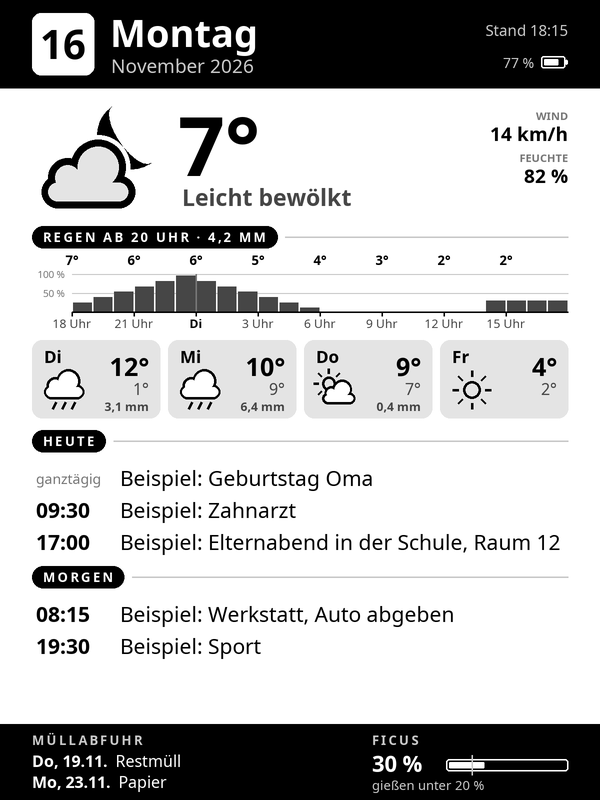
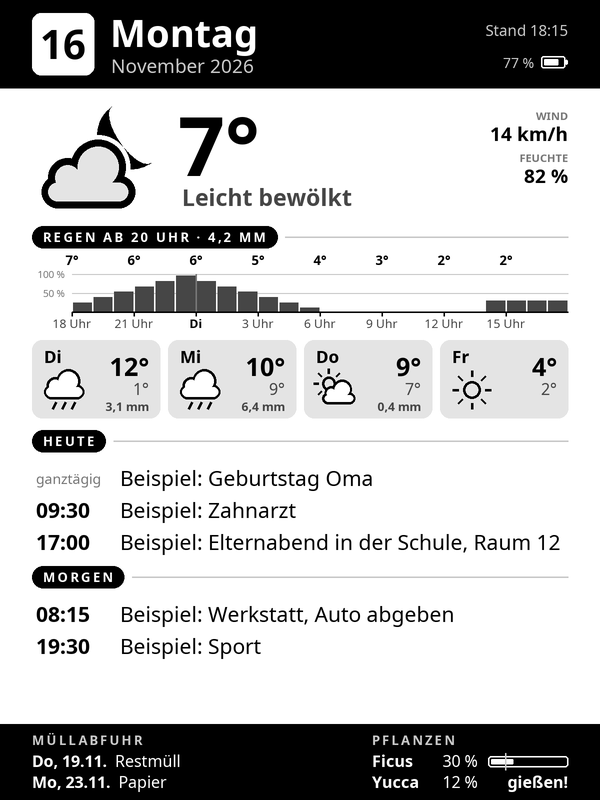
Show up to two plants in the footer

diff --git a/bild2.py b/bild2.py
@@ -179,7 +179,7 @@ def termine(b, d, y, unten):
 
 
 def fuss(b, d, y):
-    """Schwarzer Balken bis zum unteren Rand: Müllabfuhr und Pflanze."""
+    """Schwarzer Balken bis zum unteren Rand: Müllabfuhr und Pflanzen."""
     b.rechteck(0, y, BREITE, HOEHE)
     b.titel(RAND, y + 21, "Müllabfuhr", HELL)
     zy = y + 22
@@ -189,23 +189,25 @@ def fuss(b, d, y):
         zy += 21
         breite = b.text(RAND, zy, wann, 16, "fett", WEISS)
         b.text(RAND + breite + 8, zy, was, 16, farbe=WEISS, max_breite=300 - breite)
+    # Rechts: bis zu zwei Pflanzen, je eine Zeile mit Balken und Markierung an der Gieß-Grenze
     x = 372
-    for name, feuchte, grenze in d["pflanzen"][:1]:
-        b.titel(x, y + 21, name, HELL)
+    b.titel(x, y + 21, "Pflanzen", HELL)
+    for i, (name, feuchte, grenze) in enumerate(d["pflanzen"][:2]):
+        zy = y + 43 + i * 21
+        b.text(x, zy, name, 16, "fett", WEISS, max_breite=58)
         if feuchte is None:
-            b.text(x, y + 48, "–", 22, "fett", HELL)
+            b.text(x + 106, zy, "–", 16, farbe=HELL, anker="rs")
             continue
-        b.text(x, y + 48, f"{feuchte:.0f} %", 22, "fett", WEISS)
-        bx1, bx2, by = x + 74, BREITE - RAND, y + 35
-        b.rechteck(bx1, by, bx2, by + 12, farbe=SCHWARZ, radius=3, rand=WEISS, dicke=1.5)
-        b.rechteck(bx1 + 3, by + 3, bx1 + 3 + (bx2 - bx1 - 6) * min(feuchte, 100) / 100, by + 9,
+        b.text(x + 106, zy, f"{feuchte:.0f} %", 16, farbe=WEISS, anker="rs")
+        if feuchte < grenze:
+            b.text(BREITE - RAND, zy, "gießen!", 16, "fett", WEISS, anker="rs")
+            continue
+        bx1, bx2, by = x + 116, BREITE - RAND, zy - 11
+        b.rechteck(bx1, by, bx2, by + 11, farbe=SCHWARZ, radius=3, rand=WEISS, dicke=1.5)
+        b.rechteck(bx1 + 3, by + 3, bx1 + 3 + (bx2 - bx1 - 6) * min(feuchte, 100) / 100, by + 8,
                    farbe=WEISS, radius=1)
         gx = bx1 + 3 + (bx2 - bx1 - 6) * grenze / 100
-        b.linie(gx, by - 4, gx, by + 16, dicke=1.5, farbe=HELL)
-        if feuchte < grenze:
-            b.text(x, y + 66, "Bitte gießen", 15, "fett", WEISS)
-        else:
-            b.text(x, y + 66, f"gießen unter {grenze:.0f} %", 13, farbe=HELL)
+        b.linie(gx, by - 3, gx, by + 14, dicke=1.5, farbe=HELL)
 
 
 def zeichne(d):

diff --git a/einstellungen.beispiel.py b/einstellungen.beispiel.py
@@ -18,8 +18,8 @@ MUELLNAMEN = [("Restabfall", "Restmüll"), ("Bio", "Bio"), ("Papier", "Papier"),
 AKKU = "input_number.kindle_akku"
 LAEDT = "input_boolean.kindle_ladevorgang"
 
-# Plants: (name in the picture, soil moisture sensor, water below ... %) - only the first one is shown
-PFLANZEN = [("Ficus", "sensor.ficus_feuchtigkeit", 20)]
+# Plants: (name in the picture, soil moisture sensor, water below ... %) - the first two are shown
+PFLANZEN = [("Ficus", "sensor.ficus_feuchtigkeit", 20), ("Yucca", "sensor.yucca_feuchtigkeit", 15)]
 
 # Rooms: all temperature sensors per room; the LOWEST value is shown (no average). At most 6 rooms.
 # The rooms only appear when no rain is expected for 24 hours - otherwise the chart takes their place.

diff --git a/bild.py b/bild.py
@@ -346,7 +346,7 @@ BEISPIEL = {
     "raeume": [("Wohnzimmer", 19.6), ("Küche", 21.1), ("Arbeitszimmer", 20.8),
                ("Bad", 19.2), ("Kind", 20.3), ("Schlafen", 22.4)],
     "muell": [("Do, 19.11.", "Restmüll"), ("Mo, 23.11.", "Papier")],
-    "pflanzen": [("Ficus", 30, 20)],
+    "pflanzen": [("Ficus", 30, 20), ("Yucca", 12, 15)],
 }
 
 if __name__ == "__main__":

diff --git a/INSTALL.md b/INSTALL.md
@@ -37,8 +37,8 @@ Find out, by looking where you can and asking where you cannot:
    at the bottom or under Menu → Device Info.) The layout is drawn for **600×800 pixels**, the
    resolution of the Kindle 4. Other resolutions need changes to the layout code, see the end of
    this file.
-4. Which data does the person want on the page? Weather, calendars, waste collection, one plant
-   sensor and room temperatures are supported. Everything except weather is optional.
+4. Which data does the person want on the page? Weather, calendars, waste collection, up to two
+   plant sensors and room temperatures are supported. Everything except weather is optional.
 
 Summarise what you found and ask the open questions in one go.
 
@@ -84,7 +84,7 @@ Summarise what you found and ask the open questions in one go.
    - `WETTER`: a `weather.*` entity that supports daily and hourly forecasts.
    - `KALENDER`: the calendars to show. `MUELL`: the waste calendar. Adjust `MUELLNAMEN` so each
      pair is (word that occurs in the event title, short name to display).
-   - `PFLANZEN`: one soil moisture sensor with a watering threshold in percent.
+   - `PFLANZEN`: up to two soil moisture sensors, each with a watering threshold in percent.
    - `RAEUME`: up to six rooms, each with one or more temperature sensors. The lowest reading per
      room is shown. Check that each sensor really is a measured temperature and not a target
      temperature of a thermostat.

diff --git a/README.md b/README.md
@@ -20,7 +20,7 @@ The page is in German, and so are the identifiers and comments in the code.
 - Forecast for the next four days
 - Appointments for today and tomorrow. Today always comes first; tomorrow gets the lines that are left.
 - The next two waste collection days
-- Soil moisture of one plant, with a watering threshold
+- Soil moisture of up to two plants, each with a watering threshold
 - At night the sun is replaced by the moon in its current phase
 
 ## How it works
